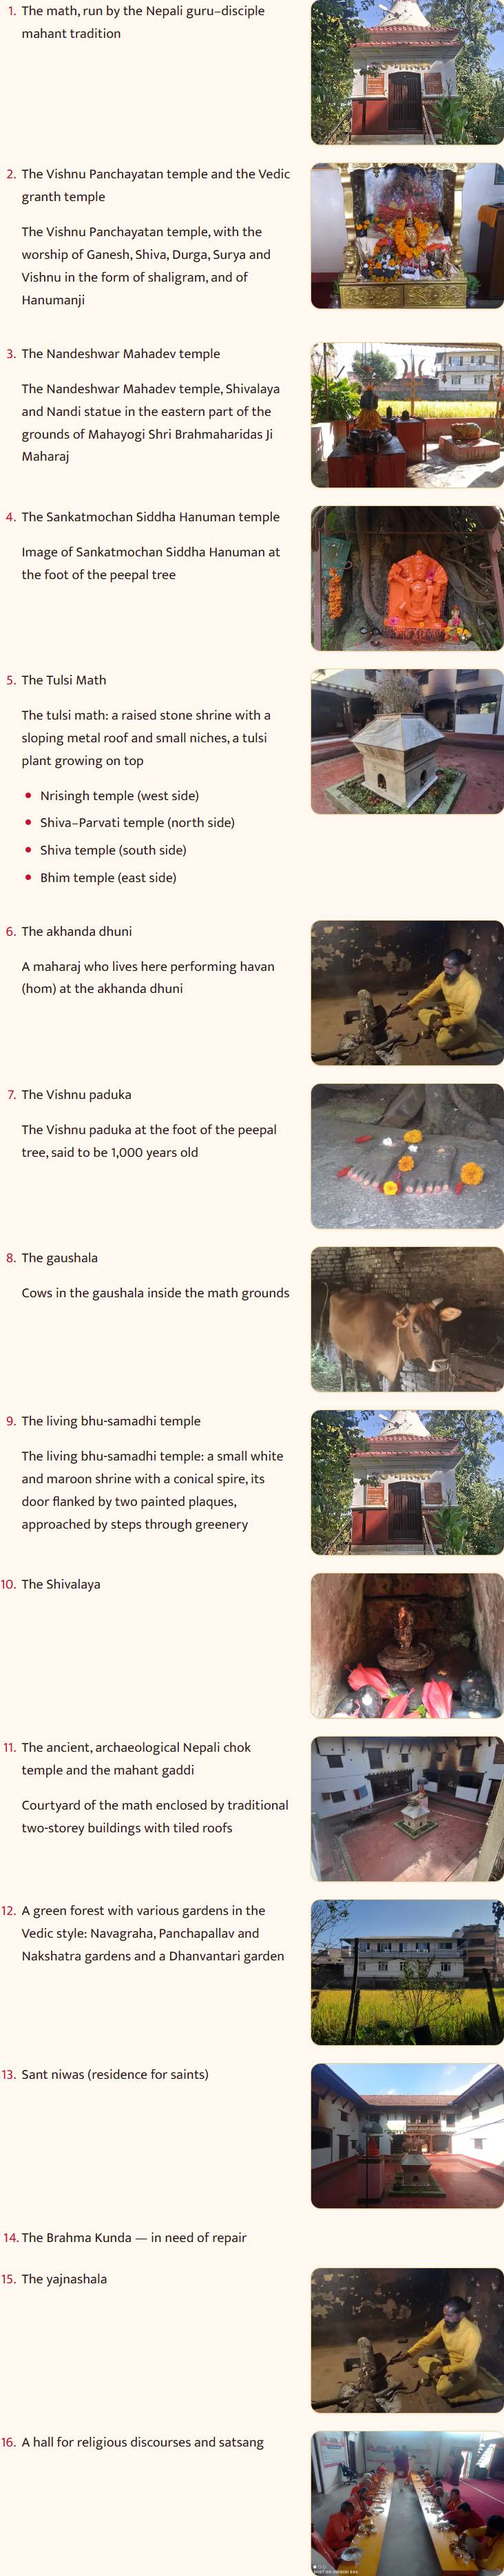
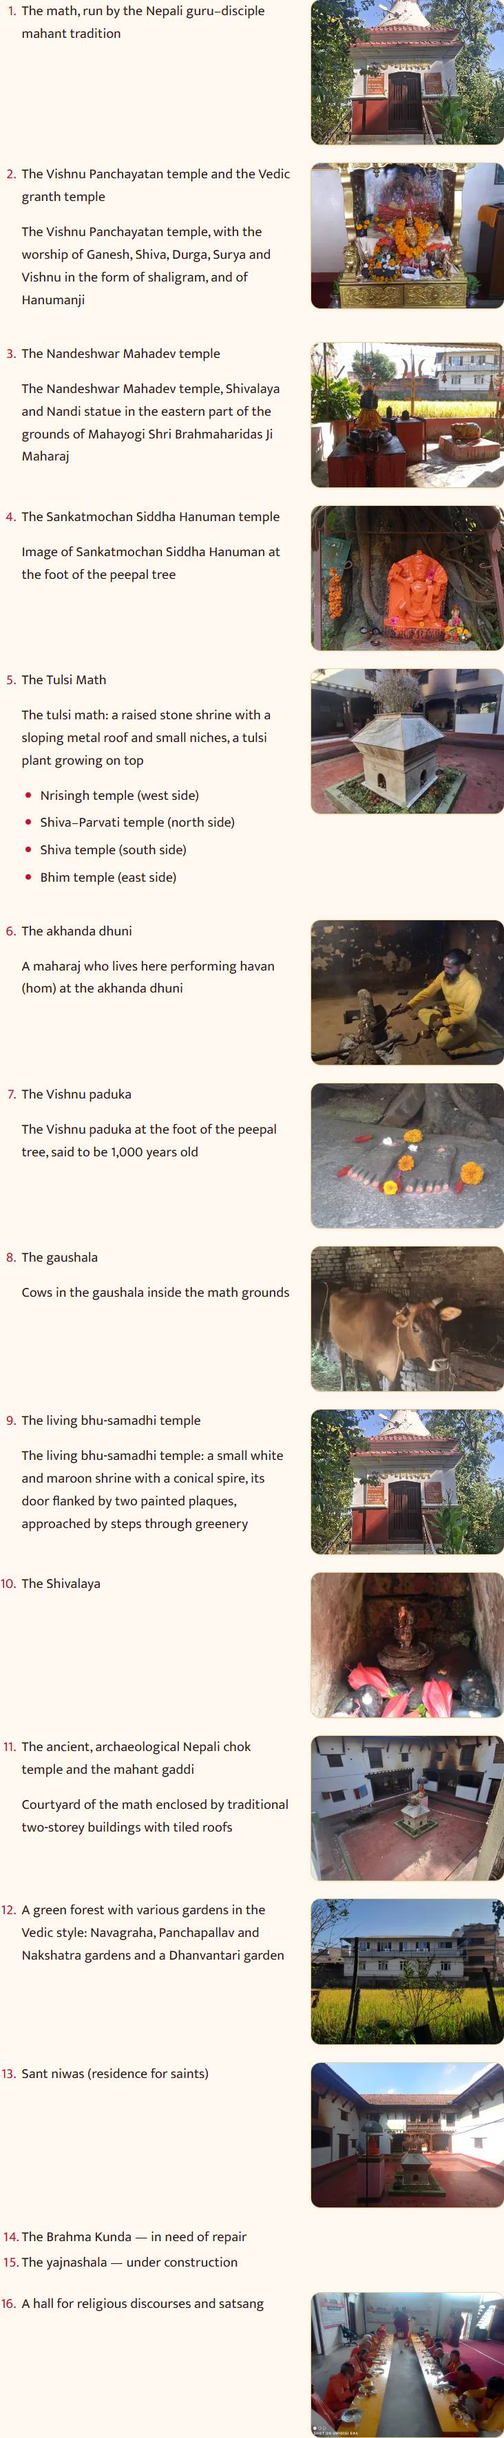
Nanak heritage list: item 15 (yajnashala) "under construction", no photo
From the ward team (17 Nov 2026): the akhanda dhuni photo is removed from item 15
and the item reads "The yajnashala — under construction" / "यज्ञशाला — निर्माणाधीन".

diff --git a/MISSING_INFO.md b/MISSING_INFO.md
@@ -77,7 +77,7 @@ Most of the missing Mhepi Ajima content, and all ward information, is probably i
 - [ ] **Typos in the Nepali to check (not changed):** "बुद्धिदास महाराजको तिथ" (तिथि); "वि.सं. २०८० असाेज" typed as ा+े (असोज); "वासन्तीक नवरात्र" (वासन्तिक); "विष्णु पञ्चायन" in 4 places (पञ्चायतन elsewhere); "संवर्धन  एवं" double space; "नेपाली चोकन मन्दिर" (चोक?).
 - [ ] **Photos beside "यहाँ भएका सम्पदाहरू" / "The Heritage Here"** (`content/section-photos.json`): matched by Claude using the guru's new photo descriptions. Confirm, especially item 11 (ancient Nepali chok temple and mahant gaddi → `main-courtyard`, the courtyard of the two-storey buildings) and item 2 (`gilded-shrine`, described as the Vishnu Panchayatan temple). No photo yet for items 1, 10 and 12–16.
   - [x] **Item 11 description**: turned on (17 Nov 2026) on confirmation that the courtyard photo matches "the ancient Nepali chok temple and the mahant gaddi". All nine items now show their photo's description.
-  - [x] **Items 10, 12, 13, 16 replaced (17 Nov 2026, from the team's pictures):** 10 Shivalinga in a stone niche (new: `shivalinga-niche.webp`), 12 paddy field, 13 courtyard view, 16 bhandara (re-added); 15 the akhanda dhuni photo, the same as item 6; 14 (Brahma Kunda) has no photo and now reads "in need of repair" / "मर्मत आवश्यक", from the ward team (source key `ward-team`). Nepali wording by Claude; please check. Nepali alt text of `shivalinga-niche.webp` is by Claude; please check.
+  - [x] **Items 10, 12, 13, 16 replaced (17 Nov 2026, from the team's pictures):** 10 Shivalinga in a stone niche (new: `shivalinga-niche.webp`), 12 paddy field, 13 courtyard view, 16 bhandara (re-added); 15 (yajnashala) has no photo and now reads "under construction" / "निर्माणाधीन" (ward team; Nepali by Claude, please check); 14 (Brahma Kunda) has no photo and now reads "in need of repair" / "मर्मत आवश्यक", from the ward team (source key `ward-team`). Nepali wording by Claude; please check. Nepali alt text of `shivalinga-niche.webp` is by Claude; please check.
   - [x] **Items 1, 10, 12–16** (superseded for 10, 12, 13, 16 by the line above) (17 Nov 2026, chosen by the team from the gallery's 4-column grid): 1 samadhi temple, 10 statue of Mahant Buddhidas, 12 Hanuman shrine under the peepal tree, 13 Nandi & Shivalinga, 14 heritage signboard, 15 painting of Brahmaharidas, 16 painting of Gothalramdas, all **without** captions. Now every item has a photo. Three photos appear twice in the list (samadhi temple: 1 and 9; Hanuman shrine: 4 and 12; Nandi & Shivalinga: 3 and 13); swap them for photos of the actual places when the team has them.
 - [ ] **Alternative name "Siddheshwar Mahadev" — needs a source.** Given by the ward team (13 Nov 2026) but not confirmed. It was removed from the chatbot topic label in the Phase 9 review and is **not shown anywhere** on the site.
   - A search of raw-data found **no occurrence** of Siddheshwar / सिद्धेश्वर (or its spelling variants) in the docx, the transcribed signboards and inscriptions, or any file name. The three web sources don't mention it either.

diff --git a/content/heritage/nanak-math.ne.md b/content/heritage/nanak-math.ne.md
@@ -177,7 +177,7 @@ gallery:
 
 ## यहाँ भएका सम्पदाहरू {#architecture}
 
-<!-- source: nanak-account, ward-team | DOCX सम्पदा सूची (१–१६) + Additional info; १४ "मर्मत आवश्यक" वडा टोलीबाट, १७ नोभेम्बर २०२६ -->
+<!-- source: nanak-account, ward-team | DOCX सम्पदा सूची (१–१६) + Additional info; १४ "मर्मत आवश्यक" र १५ "निर्माणाधीन" वडा टोलीबाट, १७ नोभेम्बर २०२६ -->
 मठमा रहेका पुरातात्विक, ऐतिहासिक, प्राचीन भौतिक संरचना एवं सम्पदाहरू:
 
 1. नेपाली गुरु-शिष्य महन्त परम्पराद्वारा सञ्चालित मठ
@@ -198,7 +198,7 @@ gallery:
 12. वैदिक शैलीका विविध वाटिका, नवग्रह, पञ्चपल्लव एवं नक्षत्र वाटिका, धन्वन्तरि वाटिका सहितको हरियाली वनजङ्गल
 13. सन्त निवास
 14. ब्रह्मकुण्ड — मर्मत आवश्यक
-15. यज्ञशाला
+15. यज्ञशाला — निर्माणाधीन
 16. धार्मिक प्रवचन तथा सत्सङ्ग हल
 
 <!-- ### मठका जिन्सी सामग्री {#treasures} -->

diff --git a/content/heritage/nanak-math.en.md b/content/heritage/nanak-math.en.md
@@ -180,7 +180,7 @@ Puja and readings for the Vishnu Panchayatan deities and the sacred texts, and p
 
 ## The Heritage Here {#architecture}
 
-<!-- source: nanak-account, ward-team | DOCX heritage list (items 1–16) + "Additional info"; item 14 "in need of repair" from the ward team, 17 Nov 2026 -->
+<!-- source: nanak-account, ward-team | DOCX heritage list (items 1–16) + "Additional info"; items 14 "in need of repair" and 15 "under construction" from the ward team, 17 Nov 2026 -->
 The math lists these archaeological, historical and ancient structures and heritage within its grounds:
 
 1. The math, run by the Nepali guru–disciple mahant tradition
@@ -201,7 +201,7 @@ The math lists these archaeological, historical and ancient structures and herit
 12. A green forest with various gardens in the Vedic style: Navagraha, Panchapallav and Nakshatra gardens and a Dhanvantari garden
 13. Sant niwas (residence for saints)
 14. The Brahma Kunda — in need of repair
-15. The yajnashala
+15. The yajnashala — under construction
 16. A hall for religious discourses and satsang
 
 <!-- source: nanak-account | DOCX inventory ("जिन्सी सामग्रीहरू") -->

diff --git a/docs/screenshots/nanak-list-photos/README.md b/docs/screenshots/nanak-list-photos/README.md
@@ -11,10 +11,10 @@ Photos added for items without one, chosen by the team. None of these show a cap
 | 12. Green forest and gardens | paddy field |
 | 13. Sant niwas | courtyard view |
 | 14. Brahma Kunda | no photo; the item now reads "in need of repair" / "मर्मत आवश्यक" |
-| 15. Yajnashala | akhanda dhuni (same photo as item 6) |
+| 15. Yajnashala | no photo; the item now reads "under construction" / "निर्माणाधीन" |
 | 16. Satsang hall | sadhus at a shared meal (`bhandara.webp`, re-added with consent and the photographer's permission) |
 
-Items 2–9 and 11 keep their photos and captions. Two photos appear twice in the list: the samadhi temple (items 1 and 9) and the akhanda dhuni (items 6 and 15).
+Items 2–9 and 11 keep their photos and captions. One photo appears twice in the list: the samadhi temple (items 1 and 9).
 
 **Checks:** the strict build passes. In EN and NE at 375, 768 and 1440 px:
 - items 1–13, 15 and 16 have a photo; item 14 has none and reads "in need of repair";
